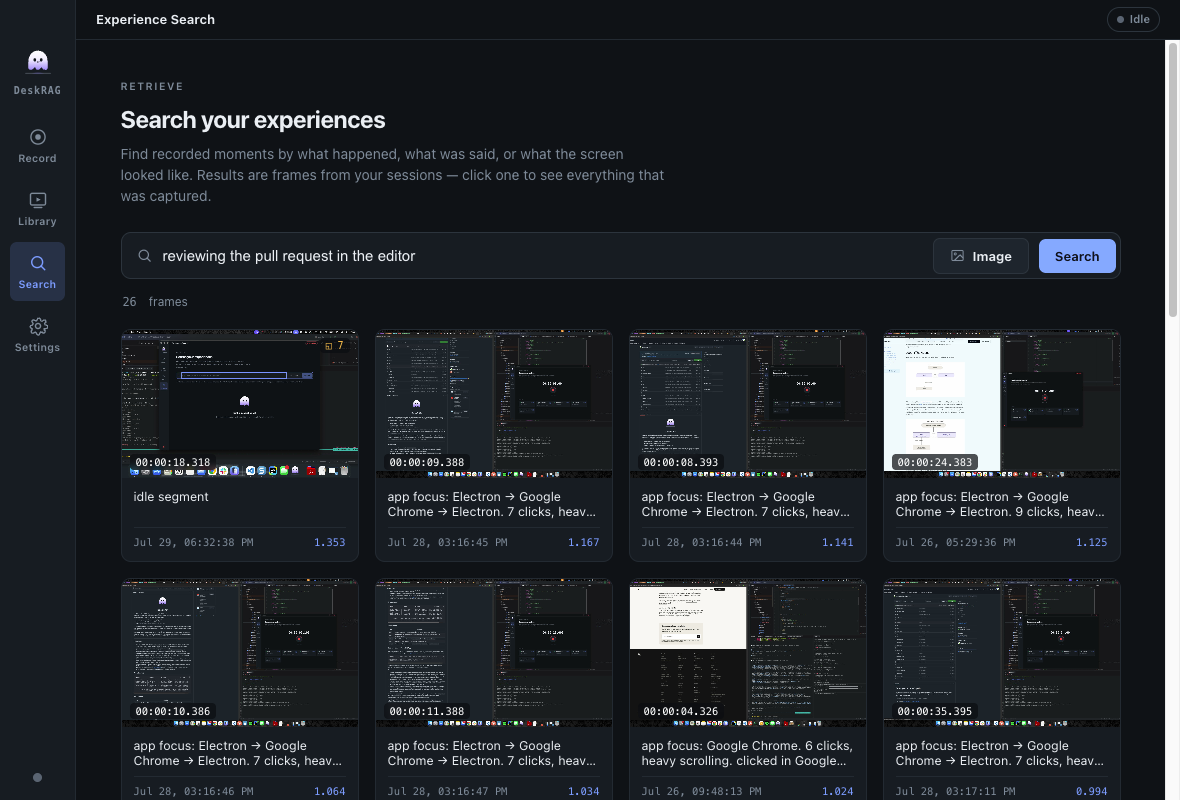
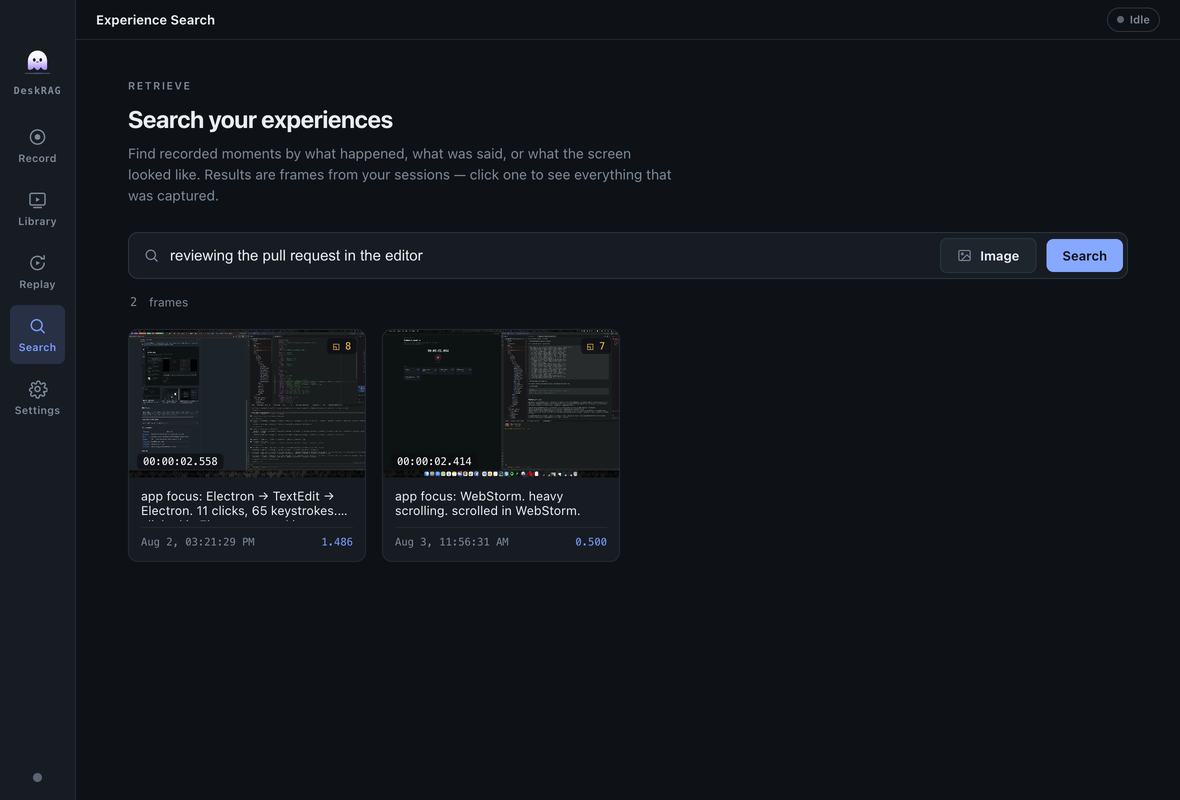
fix(docs): gen:shots drove the wrong screens, and replay was undocumented
`SHOTS` addressed rail buttons by DOM index, and inserting Replay at index 2
shifted every entry below it: the "search" shot clicked Replay, waited 8s for a
`.searchbar` that could never appear, and wrote the Replay screen into
search.png; "settings" captured Search. It never failed, because `soften()`
deliberately treats a timeout as "capture what's there and warn" — so a wrong
screenshot is exactly as quiet as a right one.

`nav` is now the button's LABEL, matched exactly, and the script throws when a
label doesn't resolve to exactly one button. Inserting a screen now fails loudly
instead of silently screenshotting the wrong thing. That search.png and
settings.png both change here, while record/library/detail come back
byte-identical, is the confirmation they had been wrong.

Adds a replay shot via a generalized `pick` step — a pre-capture click, softened
like the existing detail sub-shot. It selects a node that is both locatable and
has a keyframe, so the drawer shows real predicates, slots and Run rather than a
blank thumbnail.

The trace IR and executor were absent from every prose doc, and the Library
section still described the filmstrip the track rail replaced:

- README: trace/replay in the pitch; screenshot table 2x2 with replay.png
- app/README: five screens; a Replay section; Library rewritten for the track
  rail (including null-vs-zero coverage); ax-exec and why it is a separate
  binary from ax-dump
[…]

diff --git a/app/README.md b/app/README.md
@@ -6,11 +6,12 @@
 
 An Electron desktop app over the [DeskRAG](../README.md) library: pick your local
 models, grant macOS permissions, toggle capture signals, record an experience, then
-play it back with the index on the timeline — or search your sessions as a contact
-sheet of keyframes and drill into any hit.
+play it back with the index on the timeline — search your sessions as a contact
+sheet of keyframes and drill into any hit, or replay a recorded task against the
+live desktop.
 
-- **electron-vite + React + TypeScript.** Four screens: Record, Library, Search,
-  Settings.
+- **electron-vite + React + TypeScript.** Five screens: Record, Library, Replay,
+  Search, Settings.
 - **Fully local.** Every model runs on this machine — an Ollama daemon on
   localhost, or ONNX in-process. There is no cloud provider and no API key
   anywhere in the app, so nothing you record can leave the device.
@@ -34,9 +35,19 @@ stage-by-stage indexing progress after Stop.
 
 Every session you've captured, with the index put on the timeline. Keyframes become
 player **chapter cues** — so the scrubber is divided at exactly the frames that were
-indexed — and thumbnail images on scrub. Below the frame, a filmstrip tracks the
-playhead and scrolls to the nearest keyframe. Sessions delete with a confirm, which
-removes the rows and then the blobs.
+indexed — and thumbnail images on scrub.
+
+Below the frame is the **track rail**: fifteen lanes of what was actually captured —
+input rates, focus spans, segments, keyframes, accessibility snapshots, regions, and
+an audio envelope — sharing **one time axis** with the scrubber above it, so a lane
+and the playhead always mean the same instant. The rail scrolls and yields space to
+the frame before the page does, so how many lanes are visible follows the window. In a density lane, a gap is not a
+zero: recorded silence is a flat line, while a stretch with no audio at all reads as
+no coverage, which is how a dead microphone stays distinguishable from a quiet room.
+A lane can also carry a warning where the data is present but unusable — keystrokes
+recorded without a keyboard layout look healthy and were dropped at lift.
+
+Sessions delete with a confirm, which removes the rows and then the blobs.
 
 Playback has **no audio**: the screen video is video-only, so volume and mute
 controls are removed rather than shown inert. Fullscreen and picture-in-picture are
@@ -66,6 +77,45 @@ instead, with its label; the screenshot below is opened from the Library, so the
 is no query and the AX locator is the only overlay.
 
 ![Detail view](../docs/images/detail.png)
+
+### Replay
+
+The other direction: instead of recalling a session, **re-run** one. Indexing lifts
+every recording into a **trace graph** — nodes are states verified against the
+accessibility tree, edges are the actions you actually performed — and every session
+merges into the same graph, so recording a task a second time branches it or fills in
+a variable rather than starting a disconnected chain.
+
+**Rebuild trace graph** in the Library discards the graph and re-lifts every
+recording, oldest first — needed after a change to how identity is derived, since a
+stored node keeps the shape it was written with. It has to be a whole rebuild rather
+than a re-lift of one session: a graph *accretes*, so folding a session into a graph
+that already contains it would count it twice and inflate the very evidence used to
+choose a route. Nothing is re-recorded — lifting re-reads the accessibility snapshots
+and the event stream already on disk, so no video or keyframe is touched.
+
+The screen is **two modes**, not a split. *Browse* is the graph plus a bottom drawer:
+pick a node as the goal, fill any slots the route needs, and press Run. *Review* is
+the route and the run log. A chip in the bar reports where you are on the graph right
+now, polled live — and because looking at this screen makes DeskRAG frontmost, that
+reading is of the last *other* application seen, labelled with its age.
+
+Locating fails more often than it succeeds, so failure is a first-class view: the
+drawer names the nearest recorded states, how many of their predicates held, and
+exactly which ones didn't. Nodes that can never be located are marked — an identity
+of only `app` is satisfied by every state in that application, and a node with no
+predicates at all is vacuously true of any desktop.
+
+**Nothing is posted from a plan you haven't reviewed at exact resolution.** Plans are
+dry-run by default; arming is a separate click, per segment. A plan *stops* where
+resolution stops working and discloses the rest as an unresolved remainder — bulleted,
+never numbered, because a step number would be a claim of authorization. Unmet
+preconditions that no action can establish are blockers and cannot be overridden;
+brittleness can be, explicitly. Before acting the app hides itself and confirms it has
+resigned frontmost, since the reviewer is an application too and its own window would
+otherwise be sitting over the coordinates about to be clicked.
+
+![Replay screen](../docs/images/replay.png)
 
 ### Settings
 
@@ -136,7 +186,13 @@ Each is best-effort — a missing one only disables its signal:
 | --- | --- |
 | Screen, Microphone | `ffmpeg` on `PATH` |
 | Accessibility tree | the `ax-dump` sidecar — build with `npm run build:ax` (repo root) |
+| Replay | the `ax-exec` sidecar — same `npm run build:ax` |
 | Transcripts | a `whisper.cpp` binary + model, set in **Settings → Transcription** |
+
+> `ax-exec` is a **separate binary from `ax-dump`, deliberately**. `ax-dump` is
+> read-only, and two of its modes need no permission at all; folding actuation into
+> it would mean every accessibility read was performed by something that can also
+> click. `ax-exec` refuses to start without a plan id, so a bare invocation is inert.
 
 ## Run
 

diff --git a/docs/architecture.md b/docs/architecture.md
@@ -11,6 +11,8 @@ invariants that constrain changes to this design, see [CLAUDE.md](../CLAUDE.md).
 - **Six embeddable views** per experience — transcript (local whisper.cpp STT), VLM caption, structured-event digest, behavioral feature vector, whole-frame image, and region image.
 - **Coarse-to-fine retrieval** — pHash → segment RRF → frame ANN → region ANN + accessibility-label full-text search → optional cross-encoder rerank — returning **highlights**: the matched region bounding boxes + labels to outline *where* on the recalled frame the match is.
 - **The PixelRAG edge, grounded** — region proposals fuse the accessibility tree, interaction hotspots (weighted DBSCAN over clicks/dwell — a signal video RAG can't have), and grid tiling.
+- **Recorded behavior as a graph** — sessions lift into a **trace IR** of verified states and action edges that merges across recordings, so a task recorded twice discovers its own variable slots instead of being told them.
+- **An executor that acts only on an approved plan** — layered anchors resolve a route against the live accessibility tree, and a plan stops where resolution stops working rather than guessing past it.
 
 ## The pipeline
 
@@ -50,13 +52,59 @@ when a provider changes.
 Correlation is on `t_mono` — a monotonic offset from a session epoch — never
 wall-clock. `started_at` exists only for human display.
 
+## The other direction: trace and replay
+
+Retrieval reads sessions back. The trace IR (`src/trace/`) turns them into something
+executable, and the executor (`src/replay/`) runs it.
+
+```
+ session ──▶ lift ──▶ Trace (a linear chain) ──▶ merge ──▶ Graph ──▶ plan ──▶ [approve] ──▶ execute
+                      nodes: verified states             one graph    dry run    explicit,     CGEvent
+                      edges: action sequences            per install  by default per segment
+```
+
+**A node is a set of predicates**, extracted from the accessibility tree and filtered
+to what the task actually touches: the app, the elements its outgoing edges target,
+the focused element when it types, the waits its incoming edge established, and a URL
+prefix. Not what was on screen — content the recording never touched is excluded by
+construction, so no page-vs-chrome heuristic is needed.
+
+**Variation comes from recording, not from invention.** Two recordings that differ
+only in typed text merge into one edge with two slot samples; that's how slots are
+discovered rather than declared. A revisited state collapses into a loop. Identity is
+predicate-primary and **ambiguity declines to merge** — a redundant node is visible
+and fixable, a wrong merge is silent corruption.
+
+**Merging and locating want opposite things**, and conflating them is the trap this
+design is shaped around. Merging asks "is this the same state?" and wants exact set
+equality; locating and verification ask "does what this state claims still hold?" and
+use a subset rule, because a live screen that has gained anything would never match
+exactly.
+
+**Targets are layered anchors** — `ax → visual → point`, recorded independently and
+never derived from one another at replay time. The middle of that ladder is ordered by
+measured trust rather than fixed: a shallow path outranks a label, a deep one doesn't,
+because applications differ in how deep their trees are and in whether they publish
+labels at all.
+
+**The safety story is structural, not procedural.** `replay/` depends only on an
+injected actuator, and a test asserts that no file in it but the sidecar wrapper even
+mentions `spawn` — so the suite is *incapable* of posting a real event. Actuation
+lives in its own binary (`native/ax-exec`) separate from the read-only
+`native/ax-dump`, and a plan stops at the first anchor that describes a state which
+doesn't exist yet, disclosing the remainder as explicitly unresolved.
+
+Both `trace/` and `replay/` are **leaves**: pure TypeScript that never imports
+`store/`, `represent/` or `retrieve/`. External data arrives through injected
+callbacks, which is what keeps graph persistence a one-directional dependency.
+
 ## Repo layout
 
 | Path | What it is |
 |---|---|
-| `src/` | the DeskRAG library — capture, store, represent, retrieve (published as `deskrag`) |
+| `src/` | the DeskRAG library — capture, store, represent, retrieve, trace, replay (published as `deskrag`) |
 | `app/` | **DeskRAGApp**, the Electron desktop UI over the library (`deskrag-app`, its own install — not a workspace member) |
-| `native/` | the macOS accessibility sidecar (`ax-dump.swift`, built with `npm run build:ax`) |
+| `native/` | the macOS Swift sidecars — `ax-dump.swift` (read-only) and `ax-exec.swift` (actuation), both built with `npm run build:ax` |
 | `test/` | the executable documentation — vitest suite, deterministic |
 | `assets/` | the brand mark — generated from `scripts/brand/geometry.ts` via `npm run gen:brand` |
 | `docs/` | this documentation set, plus design specs under `docs/superpowers/` |

diff --git a/docs/library-usage.md b/docs/library-usage.md
@@ -44,6 +44,58 @@ for (const frame of result.frames) {
 }
 ```
 
+## Trace and replay
+
+The same session can be lifted into an executable graph instead of recalled. `trace/`
+and `replay/` are **leaves** — they never import `store/`, so the world reaches them
+through injected callbacks, and the caller binds those to whatever it has.
+
+```ts
+import { liftTrace, mergeTrace, executeRun, AxExecSidecar } from "deskrag";
+
+// --- lift + merge ---------------------------------------------------------
+// The environment callbacks (keymapAt, displayIdAt, windowBoundsAt) all resolve
+// "latest at-or-before this t_mono" from the session's own event stream — which
+// is why layout and display topology are recorded as events, not read as config.
+const trace = liftTrace({
+  sessionId,
+  events,
+  endTMono,
+  axAt,             // prefer the walk taken FOR a boundary over the nearest one
+  regionsAt,
+  keymapAt,
+  displayIdAt,
+  windowBoundsAt,
+});
+const graph = await mergeTrace(existingGraph, trace);  // every session → ONE graph
+
+// --- plan + run -----------------------------------------------------------
+// The ONLY thing here that can act — and it refuses to start without a plan id,
+// so a bare invocation is inert.
+const sidecar = AxExecSidecar.spawn({ planId });
+const outcome = await executeRun({
+  graph,
+  goalNodeId,
+  actuator: sidecar,
+  keymap,                                         // required: no fallback layout, ever
+  slotBindings: { query: "auth dialog" },
+  // The review gate. `replay/` never decides to act — return false and nothing
+  // is posted. This is where a UI (or, later, a model) approves a segment.
+  arm: async (plan) => await reviewSomehow(plan),
+});
+```
+
+- **`keymap` is not optional and is never defaulted.** The lift resolved keycode →
+  character against a captured layout; typing through a different one is silently
+  wrong text. Text the layout cannot produce is a *blocker*, not a guess.
+- **`executeRun` loops observe → locate → plan → arm → execute**, re-planning at each
+  segment because a plan stops where anchor resolution stops working. `arm` is called
+  once per segment, so approval is per segment and never blanket.
+- **Merging into one graph is the point.** A second recording of the same task
+  branches it or fills a slot; a fresh graph per session would produce disconnected
+  chains that never discover a variable. `mergeTrace` seeds a *new* graph's id from
+  the session it lifted, so pin the id on write if you want one graph per install.
+
 ## Things worth knowing
 
 - **Producers never touch the store**, including for files they write themselves. A

diff --git a/docs/setup.md b/docs/setup.md
@@ -13,7 +13,8 @@ Optional, per feature — a missing one disables exactly that feature:
 |---|---|
 | Screen capture, audio chunks | **`ffmpeg`** on `PATH` |
 | Mouse/keyboard + focused window | **`uiohook-napi`**, **`active-win`** (optionalDependencies) |
-| Accessibility tree | **`swiftc`** (Xcode Command Line Tools) — build the sidecar with `npm run build:ax` |
+| Accessibility tree | **`swiftc`** (Xcode Command Line Tools) — build the sidecars with `npm run build:ax` |
+| Replay (acting on a trace graph) | the **`ax-exec`** sidecar, from the same `npm run build:ax` |
 | Transcription | a **`whisper.cpp`** binary + a `ggml-*.bin` model on disk |
 | Ollama-backed embeddings/captions | an **Ollama** daemon on localhost |
 
@@ -23,8 +24,12 @@ Optional, per feature — a missing one disables exactly that feature:
 npm install
 npm run typecheck
 npm test
-npm run build:ax   # optional: compile the macOS accessibility sidecar (native/ax-dump)
+npm run build:ax   # optional: compile both macOS sidecars (native/ax-dump, native/ax-exec)
 ```
+
+> Rebuild the sidecars *and* the library together. `ax-dump`'s stdout shape is
+> parsed by `dist/`, so a `native/` built against an older `dist/` makes every
+> accessibility walk silently return nothing — no error, just empty results.
 
 To run the desktop client instead of using the library directly, see
 [DeskRAGApp](../app/README.md).
@@ -74,9 +79,11 @@ npm run smoke:onnx-electron  # the ONNX allocator crash vitest structurally cann
   `test/brand.assets.test.ts` byte-compares committed output against a fresh render
   and fails on hand edits.
 - **`gen:shots`** builds the app, then drives it with Playwright's Electron driver to
-  capture the four screens plus the detail view. It opens the real app data dir, so
+  capture the five screens plus the detail view. It opens the real app data dir, so
   **quit any running dev instance first**; screens with no indexed data capture as
-  empty states with a warning rather than failing.
+  empty states with a warning rather than failing. Rail buttons are targeted by
+  **label, not index** — inserting a screen renumbers every one below it, and an
+  index silently drives the wrong screen instead of failing.
 - **`smoke:onnx-electron`** is the only thing that reproduces the ONNX allocator
   crashes — they need Chromium's allocator *and* a second run, and vitest gives
   neither. Any change to ORT session options, tile counts, or model exports wants

diff --git a/README.md b/README.md
@@ -19,6 +19,13 @@ on the desktop we read real UI structure from the **accessibility tree**, giving
 labeled region proposals — grounded bounding boxes and roles that video systems must
 infer.
 
+Recordings don't stay read-only. Each one is lifted into a **trace graph** — states
+verified against the accessibility tree, edges of the actions you actually performed —
+which DeskRAG can **replay** against the live desktop. Recording a task twice is what
+discovers its variable parts, so the variation comes from what you did rather than
+from a model inventing it. Plans are dry-run by default and arming is an explicit
+per-segment approval: nothing is posted from a plan you haven't reviewed.
+
 **Every model runs on your machine.** There is no cloud provider, no API key, and no
 network call to anything but a daemon on localhost — the privacy claim is structural,
 not a matter of how you configured it. TypeScript throughout, strict types, pluggable
@@ -34,9 +41,12 @@ permissions, and how it's wired.
 
 <table>
 <tr>
-<td><img src="docs/images/record.png" alt="Record screen"><br><strong>Record</strong> — a per-signal switchboard with live permission status.</td>
-<td><img src="docs/images/search.png" alt="Search screen"><br><strong>Search</strong> — hits come back as a contact sheet of keyframes.</td>
-<td><img src="docs/images/detail.png" alt="Detail view"><br><strong>Detail</strong> — pick an accessibility node to locate it on the frame.</td>
+<td width="50%"><img src="docs/images/record.png" alt="Record screen"><br><strong>Record</strong> — a per-signal switchboard with live permission status.</td>
+<td width="50%"><img src="docs/images/search.png" alt="Search screen"><br><strong>Search</strong> — hits come back as a contact sheet of keyframes.</td>
+</tr>
+<tr>
+<td width="50%"><img src="docs/images/detail.png" alt="Detail view"><br><strong>Detail</strong> — pick an accessibility node to locate it on the frame.</td>
+<td width="50%"><img src="docs/images/replay.png" alt="Replay screen"><br><strong>Replay</strong> — the trace graph, and a plan you approve before anything is posted.</td>
 </tr>
 </table>
 
